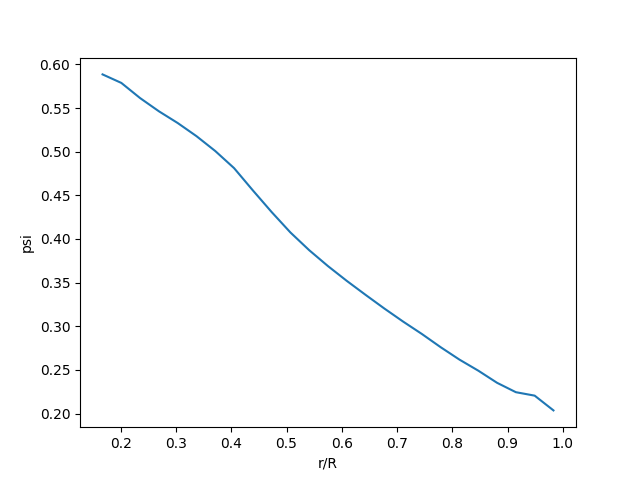
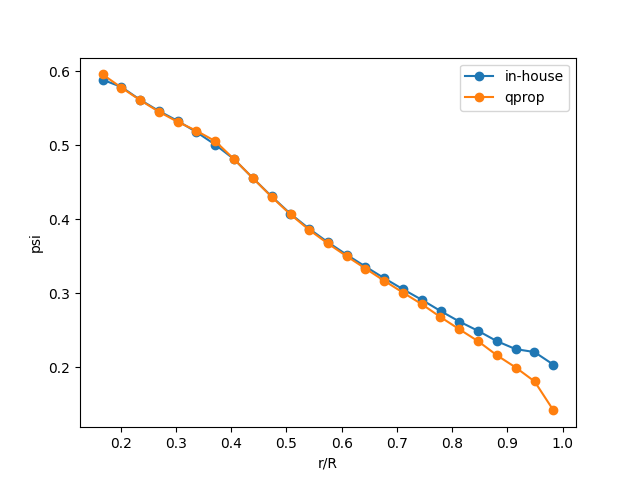
qpropの解ってほんとうにbladeとwakeのgammaが一致してるのか確かめた。していなかったし、答えがずれだすところでgammaがジャンプしてた

diff --git a/perform_analysis_qprop.py b/perform_analysis_qprop.py
@@ -113,6 +113,13 @@ qprop_beta = qprop[:, 2]
 qprop_W = qprop[:, 6] * 340
 qprop_Wa  = qprop[:, 9]
 qprop_cl  = qprop[:, 3]
+qprop_psi = np.arcsin((qprop_Wa - 0.5*V) / (0.5*U))
+qprop_Wt = np.sqrt(qprop_W**2 - qprop_Wa**2)
+qprop_lamda = r / R * qprop_Wa / qprop_Wt
+qprop_f = B / 2 * (1 - r/R) / qprop_lamda
+qprop_F = 2 / math.pi * np.arccos(np.clip(np.exp(-qprop_f), -1, 1))
+qprop_vt = omega * r - qprop_Wt
+qprop_gamma = qprop_vt * 4 * math.pi * r / B * qprop_F * np.sqrt(1 + (4 * qprop_lamda * R / (math.pi * B * r ))**2)
 # plot c_R
 plt.clf()
 plt.plot(r_R, c_R, marker='o',label='in-house')
@@ -137,11 +144,20 @@ plt.legend()
 plt.xlabel('r/R')
 plt.ylabel('W')
 plt.savefig('./debug/W.png')
+# plot psi
+plt.clf()
+plt.plot(r_R, psi, marker='o',label='in-house')
+plt.plot(qprop_r_R, qprop_psi, marker='o',label='qprop')
+plt.legend()
+plt.xlabel('r/R')
+plt.ylabel('psi')
+plt.savefig('./debug/psi.png')
 # plot gamma
 plt.clf()
 plt.plot(r_R, gamma, marker='o',label='in-house(wake)')
 plt.plot(r_R, 0.5*W*c_R*R*cl, marker='o',label='in-house(on-blade)')
-plt.plot(qprop_r_R, 0.5*qprop_W*qprop_c_R*R*qprop_cl, marker='o',label='qprop')
+plt.plot(qprop_r_R, 0.5*qprop_W*qprop_c_R*R*qprop_cl, marker='o',label='qprop(on-blade)')
+plt.plot(qprop_r_R, qprop_gamma, marker='o',label='qprop(wake)')
 plt.legend()
 plt.xlabel('r/R')
 plt.ylabel('gamma')
